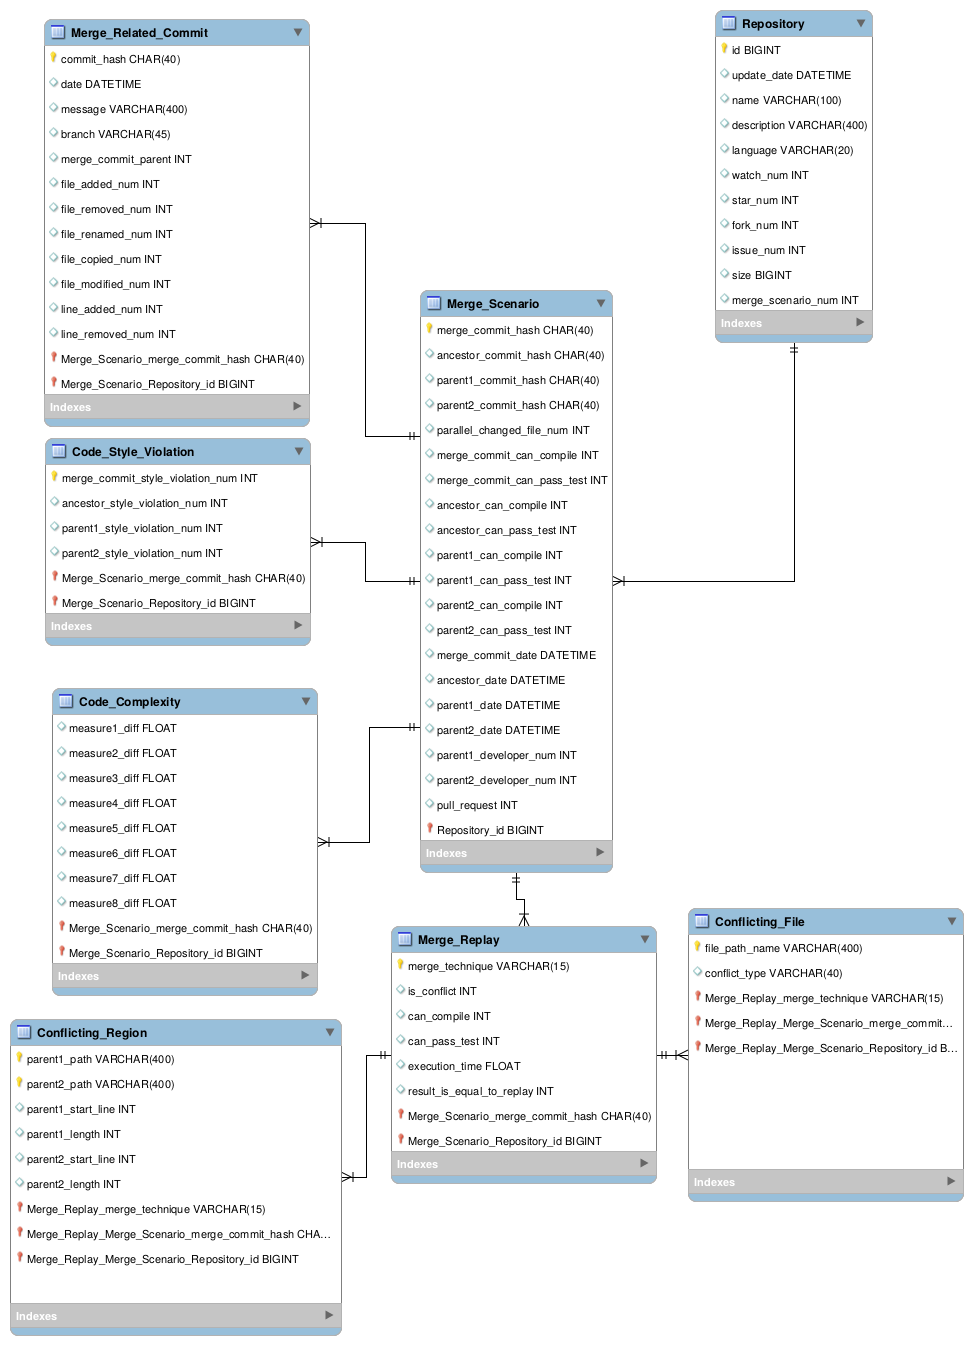
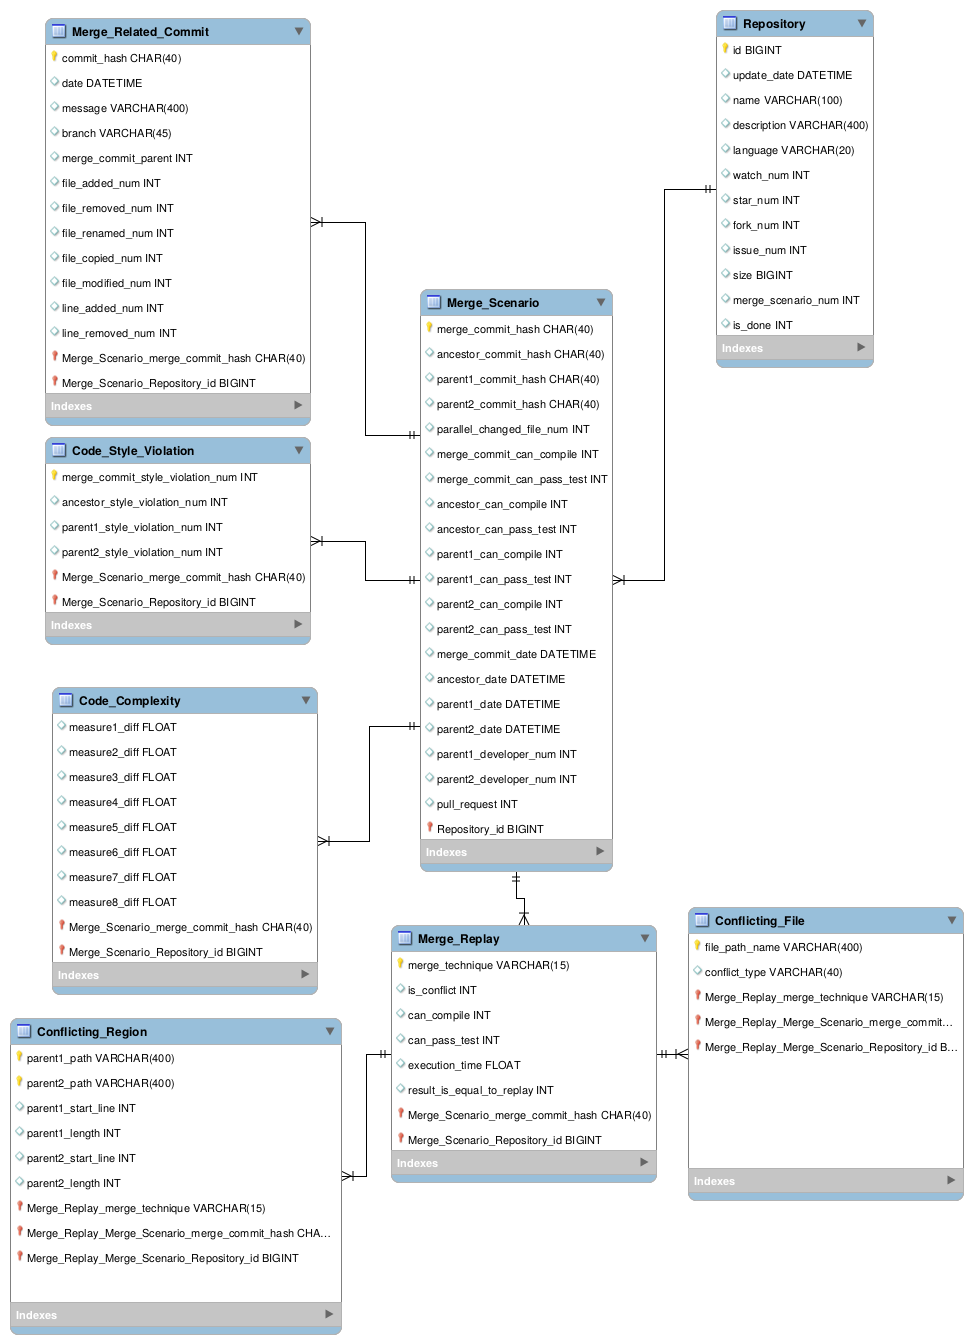
Add is_done field to Repository table

diff --git a/merge_excavator/repository_data.py b/merge_excavator/repository_data.py
@@ -8,7 +8,7 @@ import config
 import validation
 
 
-def store_repository_info(repository_name, merge_scenario_num):
+def store_repository_info(repository_name, merge_scenario_num, is_done):
     """
     This method stores the information of the given repository from GitHub. TEMP_CSV_PATH should be set in config.py
     :param
@@ -28,9 +28,29 @@ def store_repository_info(repository_name, merge_scenario_num):
     repository_data = [json_data['id'], current_time, json_data['full_name'], json_data['description'], \
                       json_data['language'], json_data['subscribers_count'], \
                       json_data['stargazers_count'], json_data['forks'], json_data['open_issues'], json_data['size'],
-                       merge_scenario_num]
+                       merge_scenario_num, is_done]
     csv_file = open(config.TEMP_CSV_PATH + 'Repository_{}.csv'.format(repository_name), 'a')
     csv_writer = csv.writer(csv_file, delimiter=',', quotechar='"')
     csv_writer.writerow(repository_data)
     csv_file.close()
+    return json_data['id']
+
+
+
+def get_repository_id(repository_name):
+    """
+    This method stores the information of the given repository from GitHub. TEMP_CSV_PATH should be set in config.py
+    :param
+    repository_url: The name of the repository in <USER_NAME>/<REPOSITORY_NAME> format
+    :return: The Nothing
+    """
+    validation.validate_repository_name(repository_name)
+
+    github_request = os.popen('curl --silent -H "Authorization: token  ' + config.GITHUB_KEY + \
+                               '"  https://api.github.com/repos/' + repository_name.replace('___', '/')).read()
+    json_data = json.loads(github_request)
+    if 'message' in json_data.keys() and json_data['message'] != 'Moved Permanently':
+         raise ValueError('The repository {} does not exists.'.format(repository_name))
+    if 'message' in json_data.keys() and json_data['message'] == 'Moved Permanently':
+         return -1
     return json_data['id']

diff --git a/merge_excavator/merge_scenario_data.py b/merge_excavator/merge_scenario_data.py
@@ -39,8 +39,8 @@ def get_merge_scenario_info(repository_name, merge_technique, repository_only, e
     # Extract all merge scenarios after the start_date
     merge_commits = [commit for commit in git_utility.get_merge_commits() if git_utility.get_commit_date(commit).split()[0] > start_date]
 
-    # Repository Data
-    repository_id = store_repository_info(repository_name, len(merge_commits))
+    # Repository id
+    repository_id = get_repository_id(repository_name)
     if repository_id == -1:
         return 1
 
@@ -144,6 +144,9 @@ def get_merge_scenario_info(repository_name, merge_technique, repository_only, e
                 csv_writer.writerow(code_complexity_data)
                 csv_file.close()
 
+    # Repository Data
+    is_done = 1
+    store_repository_info(repository_name, len(merge_commits), is_done)
 
     # Logging
     execution_time = time.time() - t0
